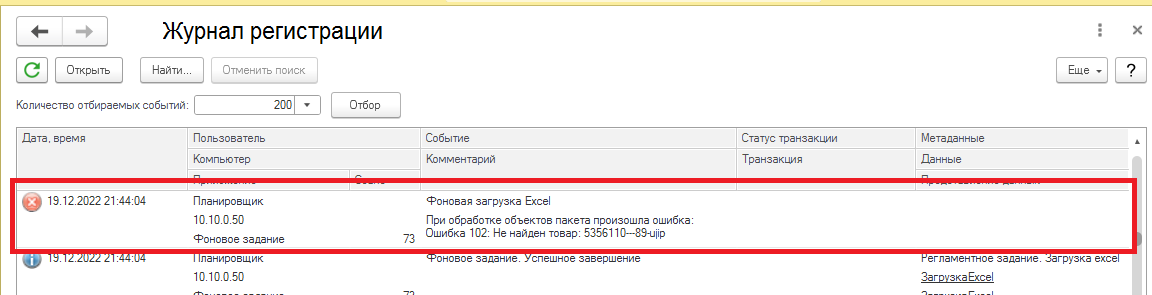
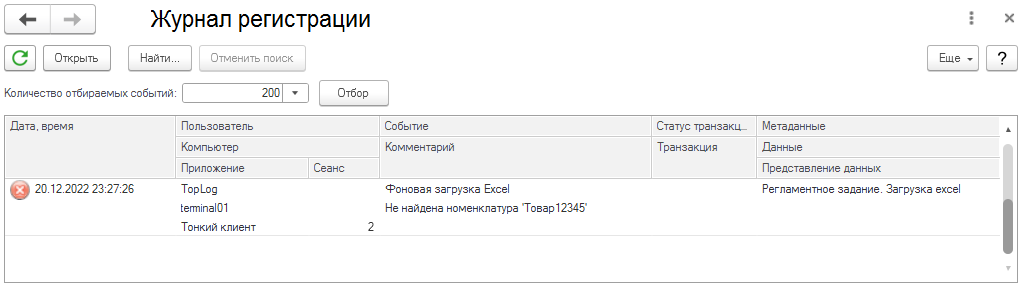
[Fix] Добавление метаданных в ошибке журнала регистрации по загрузке Excel

Changed region(s): [[0.0, 0.0, 1.0, 1.0], [0.8992, 0.1525, 1.0, 0.3051], [0.3101, 0.2441, 0.3721, 0.2746]]

diff --git a/toplogwms/Загрузка-Данных-Из-Excel-Документа/Загрузка-Данных-Из-Excel-Документа.md b/toplogwms/Загрузка-Данных-Из-Excel-Документа/Загрузка-Данных-Из-Excel-Документа.md
@@ -136,6 +136,9 @@
 
 ![Настройка-регламентов](https://github.com/flln23/TopLogWMS-documentation/blob/main/toplogwms/Загрузка-Данных-Из-Excel-Документа/img/Настройка-регламентов.png?raw=true)
 
+В случае ошибок в журнале регистрации появятся записи под событием **Фоновая загрузка Excel**, уровнем журнала регистрации **Ошибка** и метаданными **РегламентныеЗадания.ЗагрузкаExcel**
+
+![Журнал-регистрации](https://github.com/flln23/TopLogWMS-documentation/blob/main/toplogwms/Загрузка-Данных-Из-Excel-Документа/img/Журнал-регистрации.png?raw=true)
 
 
 ---
@@ -150,7 +153,3 @@
 В случае ошибок при загрузке появится дополнительное окно с текстом ошибок
 
 ![Отрицательный-результат-загрузки](https://github.com/flln23/TopLogWMS-documentation/blob/main/toplogwms/Загрузка-Данных-Из-Excel-Документа/img/Отрицательный-результат-загрузки.png?raw=true)
-
-Так же в журнале регистрации появятся записи под событием **Фоновая загрузка Excel** и уровнем журнала регистрации **Ошибка**
-
-![Журнал-регистрации](https://github.com/flln23/TopLogWMS-documentation/blob/main/toplogwms/Загрузка-Данных-Из-Excel-Документа/img/Журнал-регистрации.png?raw=true)
